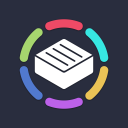
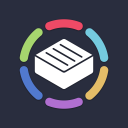
improved colors a tad

Changed region(s): [[0.6562, 0.2188, 0.8438, 0.5], [0.3438, 0.75, 0.6562, 0.8438]]

diff --git a/CHANGELOG.md b/CHANGELOG.md
@@ -6,4 +6,4 @@ All notable changes to the "smooth-dark" extension will be documented in this fi
 
 - Initial release
 
-- Update README with marketplace link
+- Improved colors a tad
